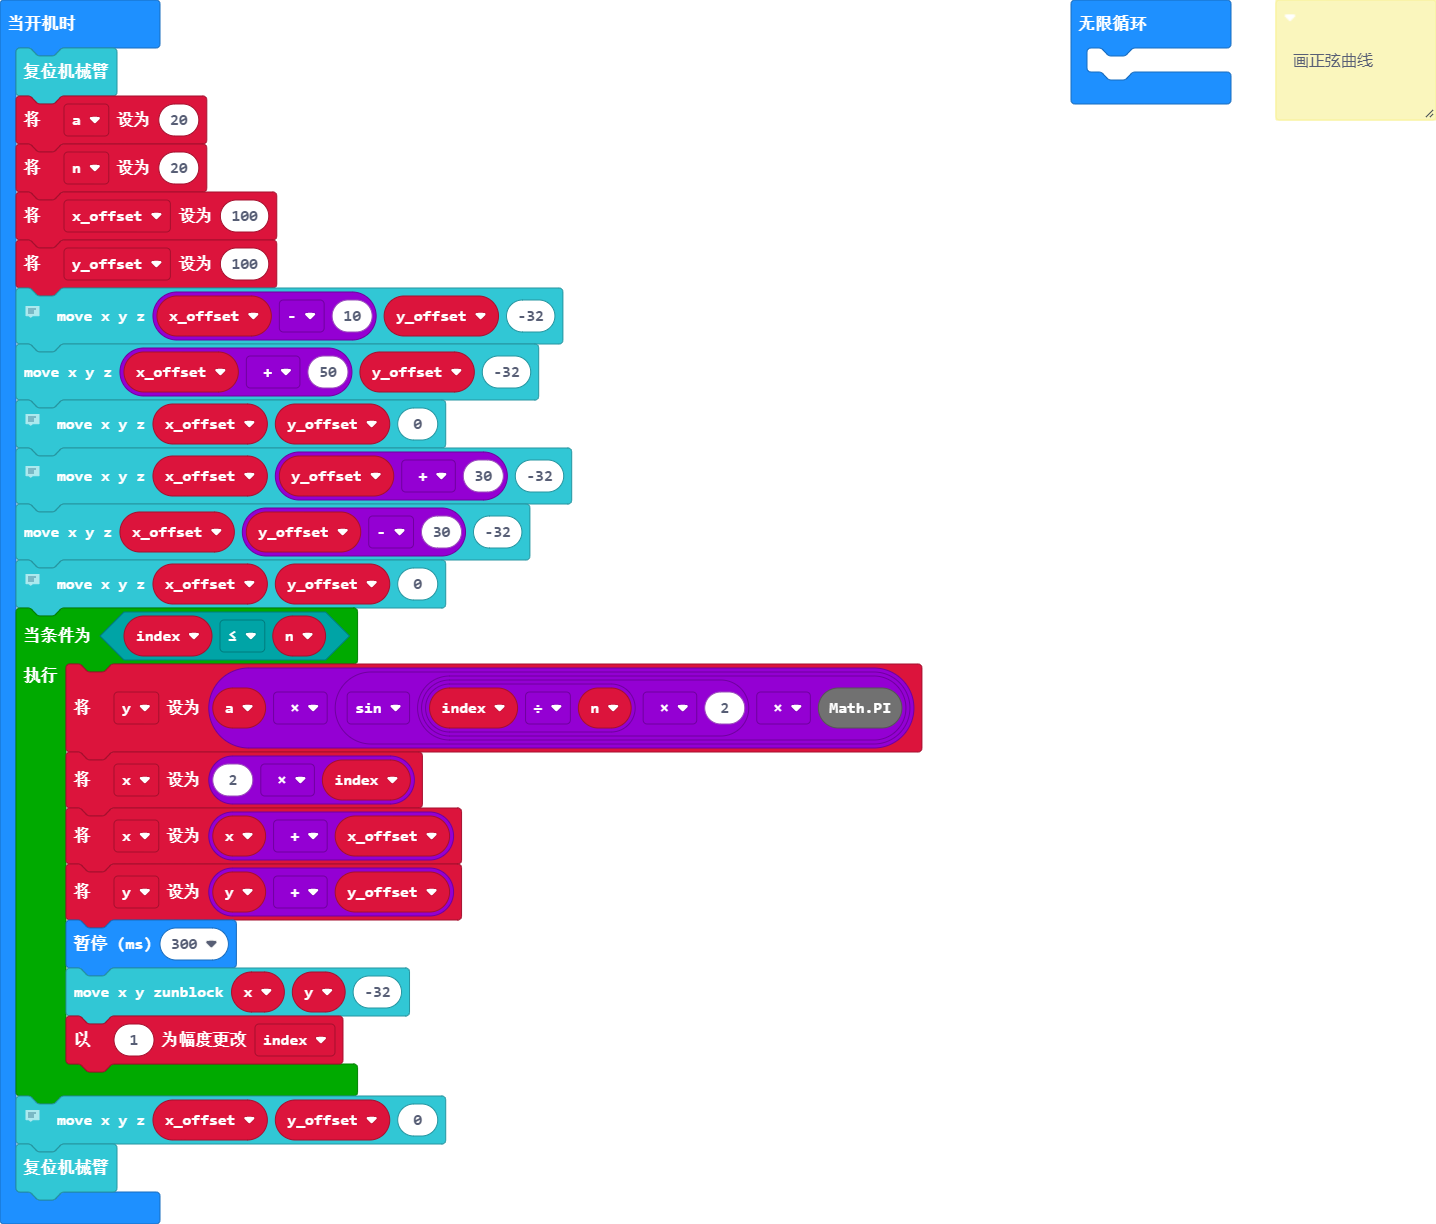
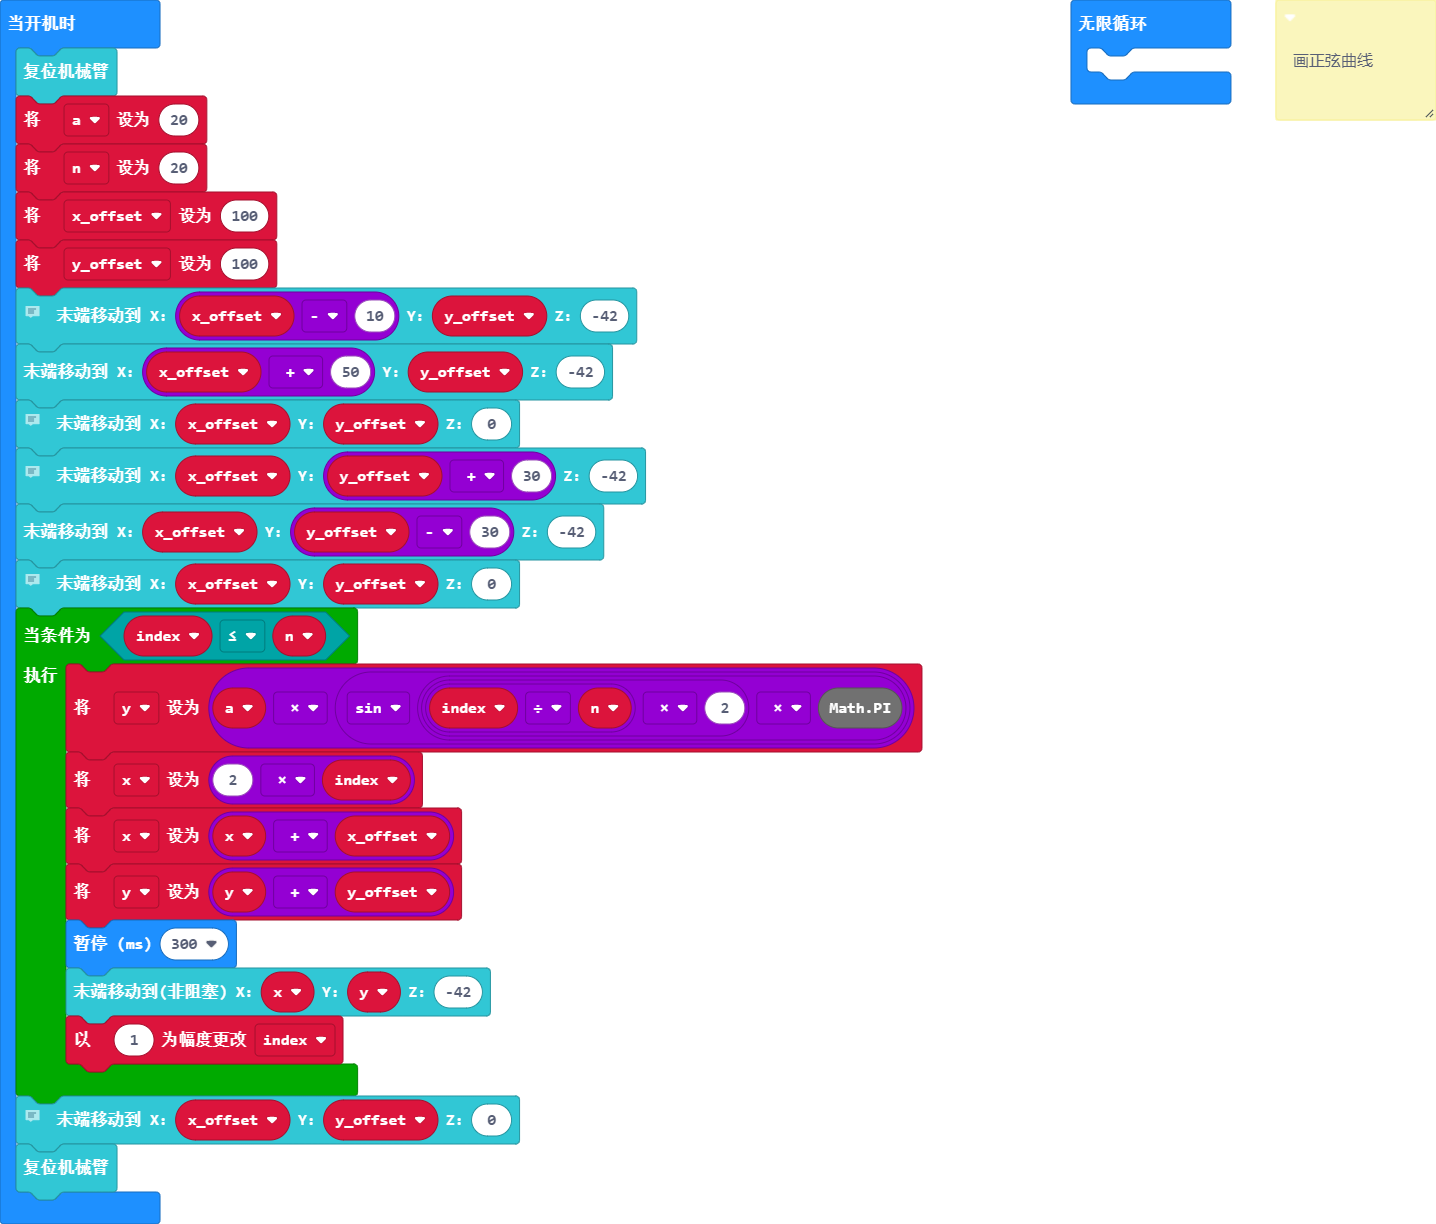
更新 pxt.json, main.blocks, main.ts

Changed region(s): [[0.0, 0.2173, 0.4596, 0.4967], [0.0613, 0.7761, 0.3677, 0.8382], [0.0306, 0.8693, 0.3677, 0.9624]]

diff --git a/main.ts b/main.ts
@@ -11,13 +11,13 @@ let x_offset = 100
 let y_offset = 100
 // 画坐标轴
 // 画x轴
-writingrobot.moveXYZ(x_offset - 10, y_offset, -32)
-writingrobot.moveXYZ(x_offset + 50, y_offset, -32)
+writingrobot.moveXYZ(x_offset - 10, y_offset, -42)
+writingrobot.moveXYZ(x_offset + 50, y_offset, -42)
 // 抬笔
 writingrobot.moveXYZ(x_offset, y_offset, 0)
 // 画y轴
-writingrobot.moveXYZ(x_offset, y_offset + 30, -32)
-writingrobot.moveXYZ(x_offset, y_offset - 30, -32)
+writingrobot.moveXYZ(x_offset, y_offset + 30, -42)
+writingrobot.moveXYZ(x_offset, y_offset - 30, -42)
 // 抬笔
 writingrobot.moveXYZ(x_offset, y_offset, 0)
 while (index <= n) {
@@ -26,7 +26,7 @@ while (index <= n) {
     x = x + x_offset
     y = y + y_offset
     basic.pause(300)
-    writingrobot.moveXYZunblock(x, y, -32)
+    writingrobot.moveXYZunblock(x, y, -42)
     index += 1
 }
 // 归位
